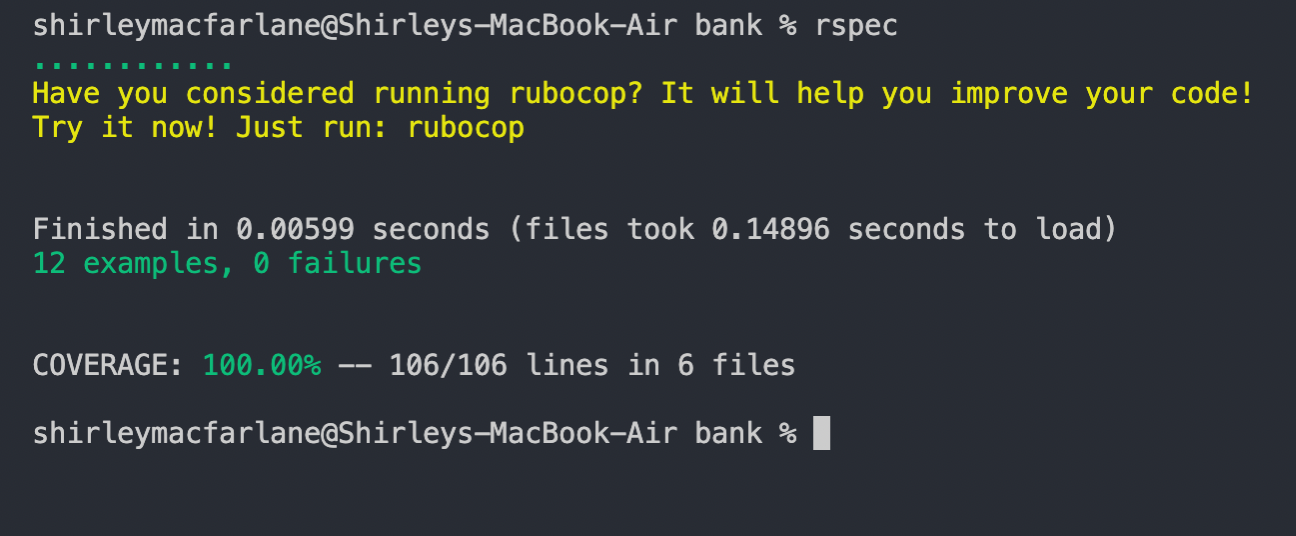
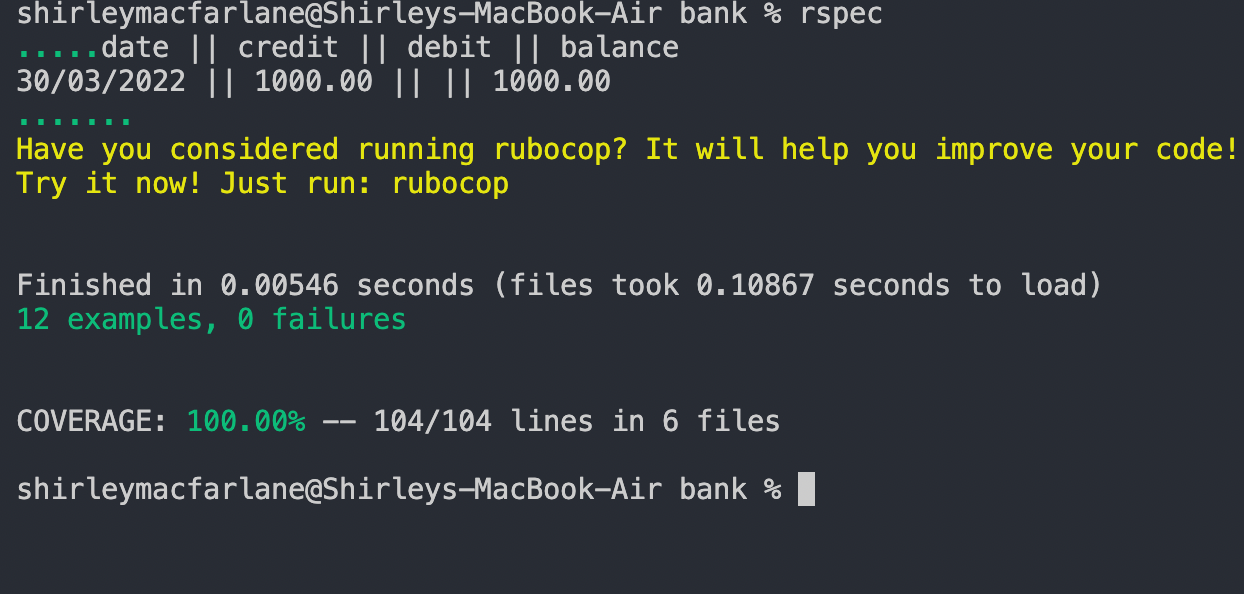
Refactor code  and update rspec tests

diff --git a/spec/statement_spec.rb b/spec/statement_spec.rb
@@ -2,29 +2,27 @@ require_relative '../lib/account'
 require_relative '../lib/statement'
 
 describe Statement do
-  subject { Statement.new(Account.new) }
+  let(:account) {double :account}
+  subject { Statement.new(account) }
 
-  describe '.print_statement' do
-    it 'it prints a statement' do
-      time = Time.now.strftime('%d/%m/%Y')
-      account = Account.new
-      account.deposit(1000)
-      account.deposit(2000)
-      account.withdraw(500)
+   describe '.print_statement' do
+    it 'it prints a statement' do 
+      account = Account.new 
+      account.instance_variable_set(:@transactions, [["30/03/2022", "deposit", 1000, 1000]] )
       statement = Statement.new(account)
+      expect(account.transactions).to eq ([["30/03/2022", "deposit", 1000, 1000]])
       expect(statement.print_statement).to eq(
-        [['date || credit || debit || balance'],
-         ["#{time} || || 500.00 || 2500.00"],
-         ["#{time} || 2000.00 || || 3000.00"],
-         ["#{time} || 1000.00 || || 1000.00"]]
+        [["30/03/2022", "deposit", 1000, 1000]]
       )
     end
   end
 
-  describe '.format_print' do
-    it 'it formats a given transaction' do
-      result = subject.send(:format_print, ['28/03/2022', 'deposit', 5, 10])
-      expect(result).to eq(['28/03/2022 || 5.00 || || 10.00'])
+  describe "test the printed output" do
+    it 'it should print a header and one transaction' do
+      account = Account.new 
+      account.instance_variable_set(:@transactions, [["30/03/2022", "deposit", 1000, 1000]] )
+      statement = Statement.new(account)
+      expect{ statement.print_statement }.to output("date || credit || debit || balance\n30/03/2022 || 1000.00 || || 1000.00\n").to_stdout
     end
   end
 

diff --git a/lib/statement.rb b/lib/statement.rb
@@ -6,28 +6,23 @@ class Statement
 
   def initialize(account)
     @account = account
-    @statement = []
   end
 
   def print_statement
-    header = ['date ||' + ' credit ||' + ' debit ||' + ' balance']
-    @statement.push(header)
-    transactions = @account.transaction.get
+    print "date || credit || debit || balance\n"
+    transactions = @account.transactions
+    transactions = transactions.reverse
     transactions.each do |transaction|
-      @statement.push(format_print(transaction))
+      this_credit = '|| '
+      this_debit = ' || || '
+      amount = format_currency(transaction[2]).to_s
+      transaction[1] == 'withdraw' ? (this_debit = amount + ' || ') : (this_credit = amount)
+      print "#{transaction[0]} || #{this_credit}#{this_debit}#{format_currency(transaction[3]).to_s}\n"
     end
-    @statement
+    #nil
   end
 
   private
-
-  def format_print(transaction)
-    this_credit = '|| '
-    this_debit = ' || || '
-    amount = format_currency(transaction[2]).to_s
-    transaction[1] == 'withdraw' ? (this_debit = amount + ' || ') : (this_credit = amount)
-    [transaction[0] + ' || ' + this_credit + this_debit + format_currency(transaction[3]).to_s]
-  end
 
   def format_currency(amount, decimal_places = 2)
     "%.#{decimal_places}f" % amount.to_f.truncate(decimal_places)

diff --git a/lib/account.rb b/lib/account.rb
@@ -2,24 +2,33 @@ require_relative '../lib/statement'
 require_relative '../lib/transaction'
 
 class Account
-  attr_reader :balance, :transaction
+  attr_reader :balance, :transactions
 
   MINIMUM_BALANCE = 0
 
   def initialize(balance = 0)
     @balance = balance
-    @transaction = Transaction.new
+    @transactions = []
   end
 
   def deposit(amount)
     @balance += amount
-    @transaction.set('deposit', amount, @balance)
+    transaction = Transaction.new('deposit', amount, Time.now.strftime('%d/%m/%Y'))
+    store_transaction(transaction)
   end
 
   def withdraw(amount)
     raise "You do not have sufficient funds to withdraw #{amount}. Your current account balance is #{@balance}" if (@balance - amount) <= MINIMUM_BALANCE
 
     @balance -= amount
-    @transaction.set('withdraw', amount, @balance)
+    transaction = Transaction.new('withdraw', amount, Time.now.strftime('%d/%m/%Y'))
+    store_transaction(transaction)
+  end
+
+  private
+
+  def store_transaction(transaction)
+    this_transaction = [transaction.time, transaction.type, transaction.amount, @balance]
+    @transactions.push(this_transaction)
   end
 end

diff --git a/spec/transaction_spec.rb b/spec/transaction_spec.rb
@@ -1,23 +1,16 @@
 require_relative '../lib/transaction'
 
 describe Transaction do
-  subject { Transaction.new }
-  time = Time.now.strftime('%d/%m/%Y')
-
-  describe '.initialize' do
-    it 'sets an empty array on creation' do
-      expect(subject.transactions.length).to be 0
+  let(:transaction) {Transaction.new("deposit", 1000, "29/03/2022")}
+  context "initialize" do
+    it 'sets a transaction type' do
+      expect(transaction.type).to eq("deposit")
     end
-  end
-
-  describe '.set' do
-    it 'sets a transaction' do
-      expect(subject.set('withdraw', 10, 5)).to eq([[time, 'withdraw', 10, 5]])
+    it 'sets a transaction amount' do
+      expect(transaction.amount).to eq(1000)
     end
-
-    it 'gets a transaction' do
-      subject.set('withdraw', 10, 5)
-      expect(subject.get).to eq([[time, 'withdraw', 10, 5]])
+    it 'sets a transaction time' do
+      expect(transaction.time).to eq("29/03/2022")
     end
   end
 end

diff --git a/lib/transaction.rb b/lib/transaction.rb
@@ -1,17 +1,9 @@
-require_relative '../lib/account'
-
 class Transaction
-  attr_reader :transactions
-
-  def initialize
-    @transactions = []
-  end
-
-  def set(type, amount, balance)
-    @transactions.unshift([Time.now.strftime('%d/%m/%Y'), type, amount, balance])
-  end
-
-  def get
-    @transactions
+  attr_reader :type, :amount, :time
+  
+  def initialize(type, amount, time)
+    @type = type
+    @amount = amount
+    @time = time
   end
 end

diff --git a/spec/account_spec.rb b/spec/account_spec.rb
@@ -2,6 +2,7 @@ require_relative '../lib/account'
 
 describe Account do
   subject { Account.new }
+  time = Time.now.strftime('%d/%m/%Y')
 
   describe '.initialize' do
     it 'returns an initial balance of zero on creation' do

diff --git a/README.md b/README.md
@@ -34,21 +34,26 @@ date || credit || debit || balance
 HOW TO RUN USING IRB
 See screen shot in images folder
 ```
+shirleymacfarlane@Shirleys-MacBook-Air bank % irb
 3.0.0 :001 > require "./lib/account"
-3.0.0 :002 > require "./lib/transaction"
-3.0.0 :003 > require "./lib/statement"
-3.0.0 :004 > account = Account.new
-3.0.0 :005 > account.deposit(2000)
- => [["28/03/2022", "deposit", 2000, 2000]] 
-3.0.0 :006 > account.deposit(1000)
- => [["28/03/2022", "deposit", 1000, 3000], ["28/03/2022", "deposit", 2000, 2000]] 
-3.0.0 :007 > account.withdraw(500)
- => [["28/03/2022", "withdraw", 500, 2500], ["28/03/2022", "deposit", 1000, 3000], ["28/03/2022", "deposit", 2000, 2000]] 
-3.0.0 :008 > statement = Statement.new(account)
- => #<Statement:0x00000001280b6480 @account=#<Account:0x0000000128087ce8 @balance=2500, @transaction=#<Transaction:0x0000000128087c98 @transactions=[["28/03/... 
-3.0.0 :009 > statement.print_statement
- => [["date || credit || debit || balance"], ["28/03/2022 || || 500.00 || 2500.00"], ["28/03/2022 || 1000.00 || || 3000.00"], ["28/03/2022 || 2000.00 || || 2000.00"]] 
-3.0.0 :010 > 
+ => true 
+3.0.0 :002 > account = Account.new
+ => #<Account:0x000000012d306f50 @balance=0, @transactions=[]> 
+3.0.0 :003 > account.deposit(1000)
+ => [["29/03/2022", "deposit", 1000, 1000]] 
+3.0.0 :004 > account.deposit(2000)
+ => [["29/03/2022", "deposit", 1000, 1000], ["29/03/2022", "deposit", 2000, 3000]] 
+3.0.0 :005 > account.withdraw(500)
+ => [["29/03/2022", "deposit", 1000, 1000], ["29/03/2022", "deposit", 2000, 3000], ["29/03/2022", "withdraw", 500, 2500]] 
+3.0.0 :006 > s = Statement.new(account)
+ => #<Statement:0x000000012d017f38 @account=#<Account:0x000000012d306f50 @balance=2500, @transactions=[["29/03/2022", "deposit", 1000, 1000], ["29/03/2022",... 
+3.0.0 :007 > s.print_statement
+date || credit || debit || balance
+29/03/2022 || || 500.00 || 2500.00
+29/03/2022 || 2000.00 || || 3000.00
+29/03/2022 || 1000.00 || || 1000.00
+ => [["29/03/2022", "withdraw", 500, 2500], ["29/03/2022", "deposit", 2000, 3000], ["29/03/2022", "deposit", 1000, 1000]] 
+3.0.0 :008 > 
 ````
 TESTING (rspec)
 See screen shot in images folder
@@ -71,19 +76,17 @@ rspec tests for Account class
 
 rspec tests for the Transaction class
 1. .initialize
-   'sets an empty array on creation'
-2. .set
-  'sets a transaction'
-3. .get
-   'gets a transaction'
+   'sets a transaction type' 
+   'sets a transaction amount'  
+   'sets a transaction time'
 
-rspec tests for the Transaction class
- tests for Statement class
+rspec tests for the Statement class 
 1. .print_statement
-   'it prints a statement' 
-private methods   
-2. .format_print
-   'it formats a given transaction' 
+   'it prints a statement'
+2. test the printed output
+   'it should print a header and one transaction'   
+
+private method
 3 format_currency (Formatted to two decimal places)
    'it returns a value formatted to two decimal places: input with no decimal places' 
    'it returns a value formatted to two decimal places : input with one decimal place'
